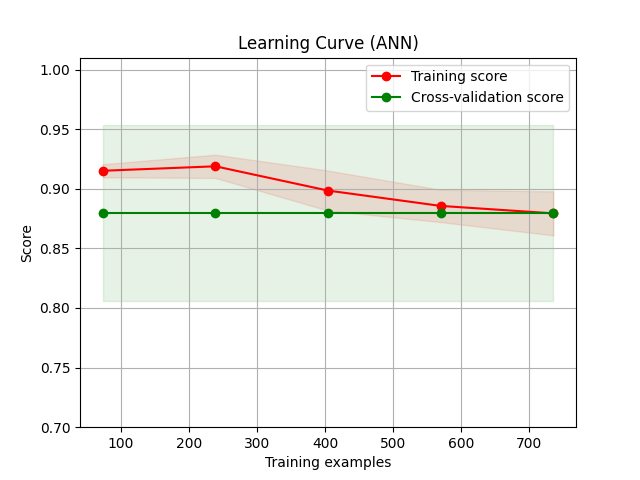
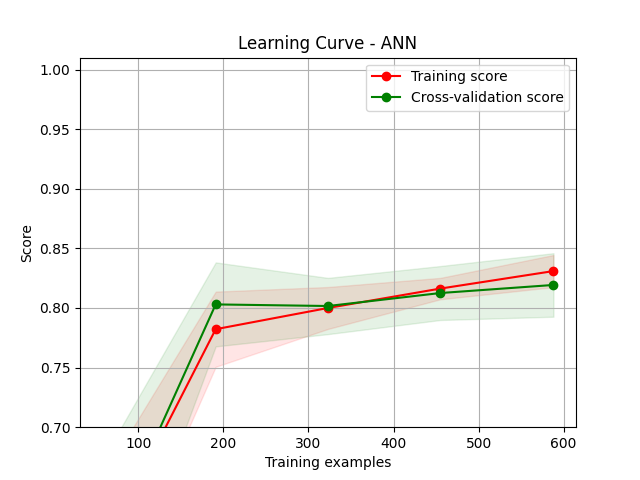
modifica per ann grid search

diff --git a/src/hd/ann.py b/src/hd/ann.py
@@ -1,16 +1,9 @@
 import torch
 import torch.nn as nn
-import torch.optim as optim
-from torch.utils.data import DataLoader, TensorDataset
 import numpy as np
-import matplotlib.pyplot as plt
-from sklearn.metrics import accuracy_score, classification_report, precision_score, recall_score, f1_score
-from sklearn.model_selection import KFold, learning_curve
-import optuna
-import json
 from heartDisease import DataSet
-from src.util.utility import PyTorchWrapper
-import os
+from sklearn.preprocessing import StandardScaler
+from skorch import NeuralNetClassifier
 
 
 class ANN(nn.Module):
@@ -28,187 +21,41 @@ class ANN(nn.Module):
         out = self.fc2(out)
         return out
 
-class ANNModel:
-    def __init__(self, dataset, n_trials=100, n_jobs=8):
-        self.dataset = dataset
-        self.input_size = self.dataset.X.shape[1]
-        self.num_classes = len(np.unique(self.dataset.y))
-        self.device = torch.device('cuda' if torch.cuda.is_available() else 'cpu')
-        self.n_trials = n_trials
-        self.n_jobs = n_jobs
-        
-        self.X = torch.FloatTensor(self.dataset.X).to(self.device)
-        self.y = torch.LongTensor(self.dataset.y).to(self.device)
-    
-    def train_evaluate(self, trial):
-        hidden_size = trial.suggest_int('hidden_size', 32, 256)
-        learning_rate = trial.suggest_float('learning_rate', 1e-4, 1e-2, log=True)
-        batch_size = trial.suggest_int('batch_size', 16, 128)
-        epochs = trial.suggest_int('epochs', 10, 100)
-        dropout_rate = trial.suggest_float('dropout_rate', 0.1, 0.5)
+# Creo un nuovo dataset con i dati sistemati per l'ANN
+class ScaledDataSet:
+    def __init__(self, dataset:DataSet):
+        scaler = StandardScaler()
+        X_train_scaled = scaler.fit_transform(dataset.X_train)
+        X_test_scaled = scaler.transform(dataset.X_test)
+        X_train_scaled = X_train_scaled.astype(np.float32)
+        X_test_scaled = X_test_scaled.astype(np.float32)
+        y_train = dataset.y_train.astype(np.int64)
+        y_test = dataset.y_test.astype(np.int64)
+        self.X_train =  X_train_scaled
+        self.X_test = X_test_scaled
+        self.y_train = y_train
+        self.y_test = y_test
 
-        kf = KFold(n_splits=5, shuffle=True, random_state=42)
-        fold_accuracies = []
-
-        for fold, (train_idx, val_idx) in enumerate(kf.split(self.X)):
-            X_train_fold, X_val_fold = self.X[train_idx], self.X[val_idx]
-            y_train_fold, y_val_fold = self.y[train_idx], self.y[val_idx]
-
-            model = ANN(self.input_size, hidden_size, self.num_classes, dropout_rate).to(self.device)
-            criterion = nn.CrossEntropyLoss()
-            optimizer = optim.Adam(model.parameters(), lr=learning_rate)
-            
-            train_dataset = TensorDataset(X_train_fold, y_train_fold)
-            train_loader = DataLoader(dataset=train_dataset, batch_size=batch_size, shuffle=True)
-            
-            for epoch in range(epochs):
-                model.train()
-                for inputs, labels in train_loader:
-                    outputs = model(inputs)
-                    loss = criterion(outputs, labels)
-                    
-                    optimizer.zero_grad()
-                    loss.backward()
-                    optimizer.step()
-            
-            model.eval()
-            with torch.no_grad():
-                outputs = model(X_val_fold)
-                _, predicted = torch.max(outputs.data, 1)
-                accuracy = (predicted == y_val_fold).sum().item() / y_val_fold.size(0)
-                fold_accuracies.append(accuracy)
-        
-        return np.mean(fold_accuracies)
-    
-    def optimize_hyperparameters(self):
-        study = optuna.create_study(direction='maximize')
-        study.optimize(self.train_evaluate, n_trials=self.n_trials, n_jobs=self.n_jobs)
-        return study.best_params, study.best_value
-    
-    def analyze_overfitting(self, train_scores, test_scores):
-        train_mean = np.mean(train_scores[-1])
-        test_mean = np.mean(test_scores[-1])
-        train_std = np.std(train_scores[-1])
-        test_std = np.std(test_scores[-1])
-        gap = train_mean - test_mean
-        
-        analysis = []
-        if gap > 0.1:
-            analysis.append(f"Possibile overfitting. Gap tra train and test: {gap:.3f}")
-        elif train_mean < 0.8:
-            analysis.append(f"Possibile underfitting. Train score: {train_mean:.3f}")
-        else:
-            analysis.append("Il modello sembra ben bilanciato.")
-    
-        analysis.append(f"Train score: media = {train_mean:.3f}, std = {train_std:.3f}")
-        analysis.append(f"Test score: media = {test_mean:.3f}, std = {test_std:.3f}")
-    
-        train_variance = np.var(train_scores[-1])
-        test_variance = np.var(test_scores[-1])
-        analysis.append(f"Train varianza: {train_variance:.3f}")
-        analysis.append(f"Test varianza: {test_variance:.3f}")
-        
-        if test_std > 0.1:
-            analysis.append("Il modello mostra una certa instabilità sui dati di test.")
-        else:
-            analysis.append("Il modello sembra stabile sui dati di test.")
-        return "\n".join(analysis)
-
-    def plot_learning_curve(self, estimator, title, X, y, ylim=None, cv=None,
-                            n_jobs=None, train_sizes=np.linspace(.1, 1.0, 5), savefig = 'src/hd/data/results/ann/learning_curve_ann.png'):
-        plt.figure()
-        plt.title(title)
-        if ylim is not None:
-            plt.ylim(*ylim)
-        plt.xlabel("Training examples")
-        plt.ylabel("Score")
-        train_sizes, train_scores, test_scores = learning_curve(
-            estimator, X, y, cv=cv, n_jobs=n_jobs, train_sizes=train_sizes)
-        train_scores_mean = np.mean(train_scores, axis=1)
-        train_scores_std = np.std(train_scores, axis=1)
-        test_scores_mean = np.mean(test_scores, axis=1)
-        test_scores_std = np.std(test_scores, axis=1)
-        plt.grid()
-        plt.fill_between(train_sizes, train_scores_mean - train_scores_std,
-                         train_scores_mean + train_scores_std, alpha=0.1, color="r")
-        plt.fill_between(train_sizes, test_scores_mean - test_scores_std,
-                         test_scores_mean + test_scores_std, alpha=0.1, color="g")
-        plt.plot(train_sizes, train_scores_mean, 'o-', color="r", label="Training score")
-        plt.plot(train_sizes, test_scores_mean, 'o-', color="g", label="Cross-validation score")
-        plt.legend(loc="best")
-        plt.savefig(savefig)
-        plt.show()
-        return train_scores, test_scores
-
-    def run(self, filename = 'ann_model_info.json', dir='src/hd/data/results/ann'):
-        print("Optimizing hyperparameters...")
-        best_params, best_accuracy = self.optimize_hyperparameters()
-        print("Best parameters found:", best_params)
-        print(f"Best mean accuracy (cross-validation): {best_accuracy:.4f}")
-        
-        best_model = ANN(self.input_size, best_params['hidden_size'], self.num_classes, best_params['dropout_rate']).to(self.device)
-        criterion = nn.CrossEntropyLoss()
-        optimizer = optim.Adam(best_model.parameters(), lr=best_params['learning_rate'])
-        
-        sklearn_model = PyTorchWrapper(
-            best_model, criterion, optimizer, 
-            best_params['batch_size'], best_params['epochs'], self.device
-        )
-        
-        X_np = self.X.cpu().numpy()
-        y_np = self.y.cpu().numpy()
-        
-        sklearn_model.fit(X_np, y_np)
-        
-        print("Plotting learning curve...")
-        train_scores, test_scores = self.plot_learning_curve(
-            sklearn_model, "Learning Curve (ANN)", X_np, y_np, ylim=(0.7, 1.01), cv=5, n_jobs=-1)
-
-        predictions = sklearn_model.predict(X_np)
-        accuracy = accuracy_score(y_np, predictions)
-        precision = precision_score(y_np, predictions, average='weighted')
-        recall = recall_score(y_np, predictions, average='weighted')
-        f1 = f1_score(y_np, predictions, average='weighted')
-        
-        print(f"Final accuracy: {accuracy:.4f}")
-        print(f"Precision: {precision:.4f}")
-        print(f"Recall: {recall:.4f}")
-        print(f"F1 Score: {f1:.4f}")
-        print("Classification Report:")
-        print(classification_report(y_np, predictions))
-        
-        overfitting_analysis = self.analyze_overfitting(train_scores, test_scores)
-        print("Overfitting Analysis:")
-        print(overfitting_analysis)
-
-        self.plot_score_distribution(train_scores, test_scores)
-
-        model_info = {
-            "model_name": "ANN",
-            "best_params": best_params,
-            "best_accuracy": best_accuracy,
-            "final_accuracy": accuracy,
-            "precision": precision,
-            "recall": recall,
-            "f1_score": f1,
-            "overfitting_analysis": overfitting_analysis
-        }
-        # Viene creata la cartella di destinazione se non esiste
-        os.makedirs(dir, exist_ok=True)
-        dest = os.path.join(dir, filename)
-        with open(dest, "w") as f:
-            json.dump(model_info, f, indent=4)
-
-    def plot_score_distribution(self, train_scores, test_scores, savefig='src/hd/data/results/ann/score_distribution_ann.png'):
-        plt.figure(figsize=(10, 6))
-        plt.title(f"Distribuzione degli score - ANN")
-        plt.boxplot([train_scores[-1], test_scores[-1]], labels=['Train', 'Test'])
-        plt.ylabel("Score")
-        plt.savefig(savefig)
-        plt.show()
-
-
-if __name__  == '__main__':
-    dataset = DataSet()
-    ann_model = ANNModel(dataset, n_trials=10)
-    ann_model.run()
+def get_skorch_ann_and_params(scaled_dataset:ScaledDataSet):
+    input_size = scaled_dataset.X_train.shape[1]
+    ann = NeuralNetClassifier(
+        module=ANN,
+        module__input_size=input_size,
+        module__hidden_size=32,
+        module__num_classes=2,
+        module__dropout_rate=0.5,
+        max_epochs=20,
+        lr=0.01,
+        batch_size=32,
+        iterator_train__shuffle=True,
+        optimizer=torch.optim.Adam,
+        criterion=nn.CrossEntropyLoss,
+    )
+    ann_params = {
+        'lr': [0.001, 0.01, 0.1],
+        'max_epochs': [10, 20, 50, 100],
+        'batch_size': [16, 32, 64],
+        'module__hidden_size': [32, 64, 128],
+        'module__dropout_rate': [0.3, 0.5, 0.7]
+    }
+    return ann, ann_params

diff --git a/src/hd/model.py b/src/hd/model.py
@@ -9,6 +9,8 @@ from heartDisease import DataSet
 from sklearn.metrics import accuracy_score, classification_report, precision_score, recall_score, f1_score
 import json
 import os
+import src.hd.ann as ann
+
 
 class Model:
     def __init__(self, dataset: DataSet, model, model_name, params, cv=5, n_jobs=8):
@@ -78,17 +80,9 @@ class Model:
             analysis.append("Il modello sembra stabile sui dati di test.")
         return "\n".join(analysis)
     
-    def plot_score_distribution(self, train_scores, test_scores, savefig):
-        plt.figure(figsize=(10, 6))
-        plt.title(f"Distribuzione degli score - {self.model_name}")
-        plt.boxplot([train_scores[-1], test_scores[-1]], labels=['Train', 'Test'])
-        plt.ylabel("Score")
-        plt.savefig(savefig)
-        plt.show()
-    
     
     # Grid Search, training, valutazione e curve di apprendimento per Modello
-    def run(self, dir_json, savefig_learning_curve, savefig_score_distribution):
+    def run(self, dir_json, savefig_learning_curve):
         print(f"Running Grid Search for {self.model_name}...")
         model_grid = GridSearchCV(self.model, self.params, cv=self.cv, n_jobs=self.n_jobs)
         model_grid.fit(self.dataset.X_train, self.dataset.y_train)
@@ -120,9 +114,6 @@ class Model:
         print(f"{self.model_name} Overfitting Analysis: ")
         overfitting_analysis = self.analyze_overfitting(train_scores, test_scores)
         print(overfitting_analysis)
-    
-        # Visualizzazione della distribuzione degli score
-        self.plot_score_distribution(train_scores, test_scores, savefig=savefig_score_distribution)
 
         # Salvataggio delle informazioni del modello
         model_info = {
@@ -141,6 +132,7 @@ class Model:
         with open(dest, "w") as f:
             json.dump(model_info, f, indent=4)
 
+
 if __name__ == '__main__':
     dataset = DataSet()
     
@@ -152,8 +144,7 @@ if __name__ == '__main__':
     }
     
     dt_model = Model(dataset, dt, "Decision Tree", dt_params)
-    dt_model.run(dir_json='src/hd/data/results/dt/', savefig_learning_curve='src/hd/data/results/dt/learning_curve_dt.png', 
-                 savefig_score_distribution='src/hd/data/results/dt/score_distribution_dt.png')
+    dt_model.run(dir_json='src/hd/data/results/dt/', savefig_learning_curve='src/hd/data/results/dt/learning_curve_dt.png')
 
     lr = LogisticRegression(random_state=42)
 
@@ -164,8 +155,7 @@ if __name__ == '__main__':
     }
 
     lr_model = Model(dataset, lr, 'Logistic Regression', lr_params)
-    lr_model.run(dir_json='src/hd/data/results/lr/', savefig_learning_curve='src/hd/data/results/lr/learning_curve_lr.png', 
-                 savefig_score_distribution='src/hd/data/results/lr/score_distribution_lr.png')
+    lr_model.run(dir_json='src/hd/data/results/lr/', savefig_learning_curve='src/hd/data/results/lr/learning_curve_lr.png')
 
     ab = AdaBoostClassifier(random_state=42, algorithm='SAMME')
 
@@ -175,8 +165,7 @@ if __name__ == '__main__':
     }
 
     ab_model = Model(dataset, ab, 'AdaBoost', ab_params)
-    ab_model.run(dir_json='src/hd/data/results/ab/', savefig_learning_curve='src/hd/data/results/ab/learning_curve_ab.png', 
-                 savefig_score_distribution='src/hd/data/results/ab/score_distribution_ab.png')
+    ab_model.run(dir_json='src/hd/data/results/ab/', savefig_learning_curve='src/hd/data/results/ab/learning_curve_ab.png')
 
     xgbc = xgb.XGBClassifier(random_state=42)
 
@@ -187,6 +176,12 @@ if __name__ == '__main__':
     }
 
     xgb_model = Model(dataset, xgbc, 'XGBoost', xgb_params)
-    xgb_model.run(dir_json='src/hd/data/results/xgb/', savefig_learning_curve='src/hd/data/results/xgb/learning_curve_xgb.png',
-                  savefig_score_distribution='src/hd/data/results/xgb/score_distribution_xgb.png')
+    xgb_model.run(dir_json='src/hd/data/results/xgb/', savefig_learning_curve='src/hd/data/results/xgb/learning_curve_xgb.png')
 
+    scaled_dataset = ann.ScaledDataSet(dataset)
+
+    arnn, arnn_params = ann.get_skorch_ann_and_params(scaled_dataset)
+
+    # multi-thread diventa problematico
+    ann_model = Model(scaled_dataset, arnn, 'ANN', arnn_params, n_jobs=1)
+    ann_model.run(dir_json='src/hd/data/results/ann/', savefig_learning_curve='src/hd/data/results/ann/learning_curve_ann.png')

diff --git a/src/util/utility.py b/src/util/utility.py
@@ -2,10 +2,6 @@ import pickle
 import time
 import optuna
 from concurrent.futures import ThreadPoolExecutor
-from sklearn.base import BaseEstimator, ClassifierMixin
-import numpy as np
-import torch
-from torch.utils.data import DataLoader, TensorDataset
 
 NTRIALS = 1000
 DIRECTION = 'minimize'
@@ -92,40 +88,3 @@ class Utility:
     def get_items_from_results(source, key, num_files=100):
         results = Utility.load_results(source, num_files)
         return [result[key] for result in results]
-    
-class PyTorchWrapper(BaseEstimator, ClassifierMixin):
-    def __init__(self, model, criterion, optimizer, batch_size, epochs, device):
-        self.model = model
-        self.criterion = criterion
-        self.optimizer = optimizer
-        self.batch_size = batch_size
-        self.epochs = epochs
-        self.device = device
-        self.classes_ = None
-
-    def fit(self, X, y):
-        self.classes_ = np.unique(y)
-        X = torch.FloatTensor(X).to(self.device)
-        y = torch.LongTensor(y).to(self.device)
-        dataset = TensorDataset(X, y)
-        loader = DataLoader(dataset=dataset, batch_size=self.batch_size, shuffle=True)
-
-        self.model.train()
-        for epoch in range(self.epochs):
-            for inputs, labels in loader:
-                outputs = self.model(inputs)
-                loss = self.criterion(outputs, labels)
-                
-                self.optimizer.zero_grad()
-                loss.backward()
-                self.optimizer.step()
-
-        return self
-
-    def predict(self, X):
-        X = torch.FloatTensor(X).to(self.device)
-        self.model.eval()
-        with torch.no_grad():
-            outputs = self.model(X)
-            _, predicted = torch.max(outputs.data, 1)
-        return predicted.cpu().numpy()
